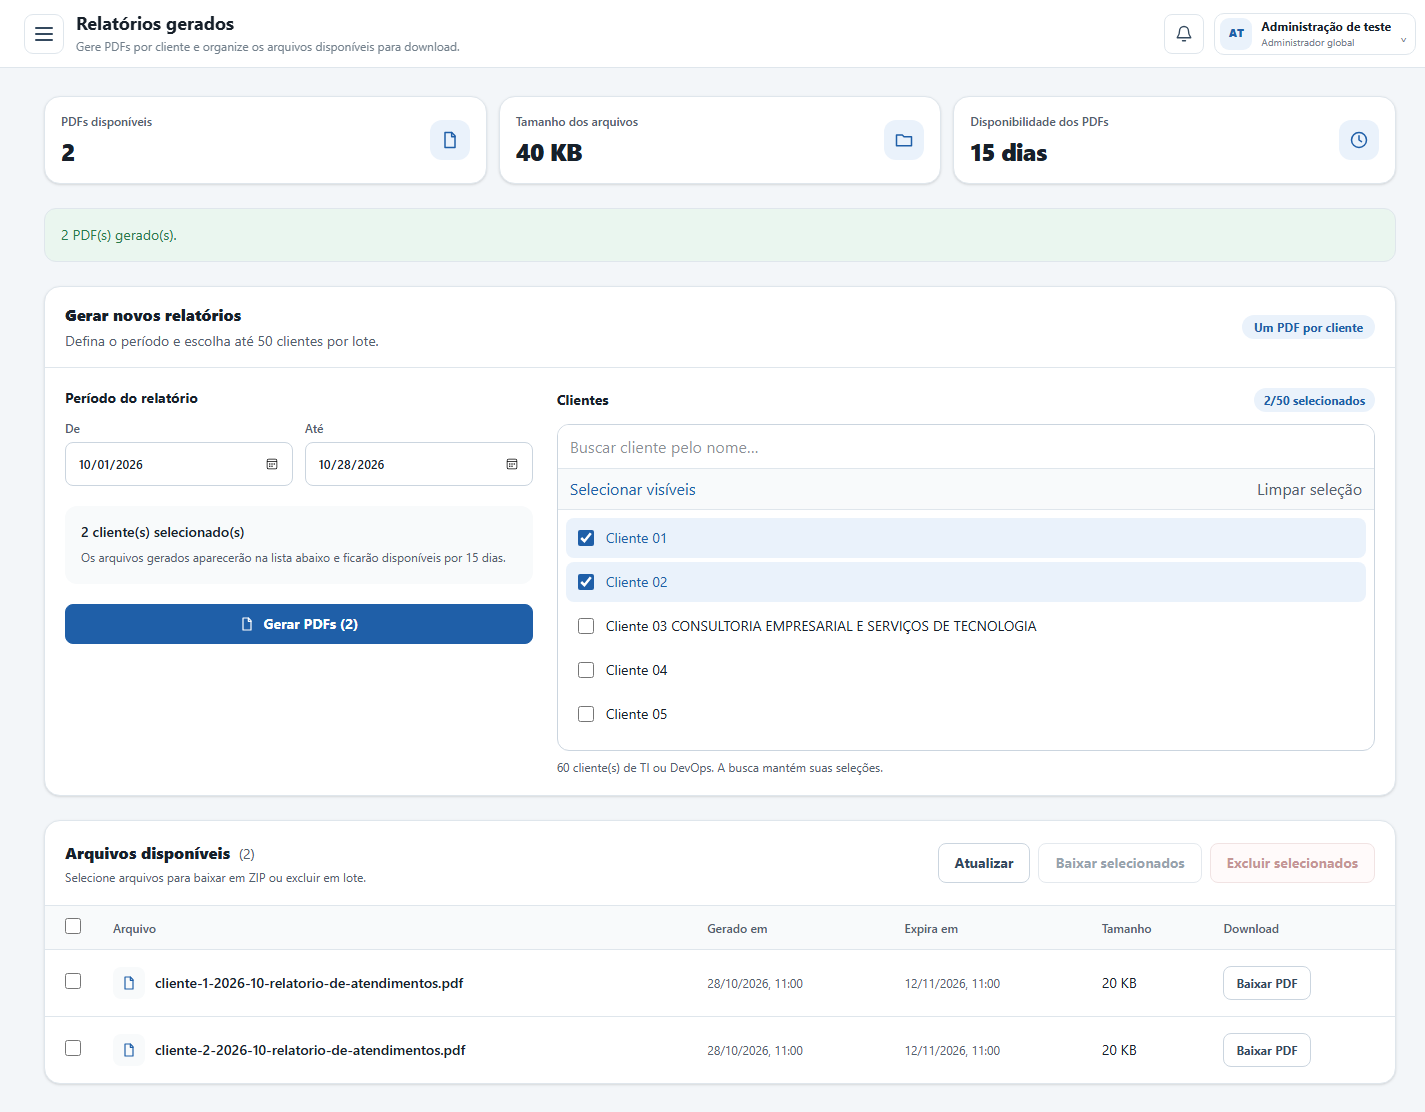
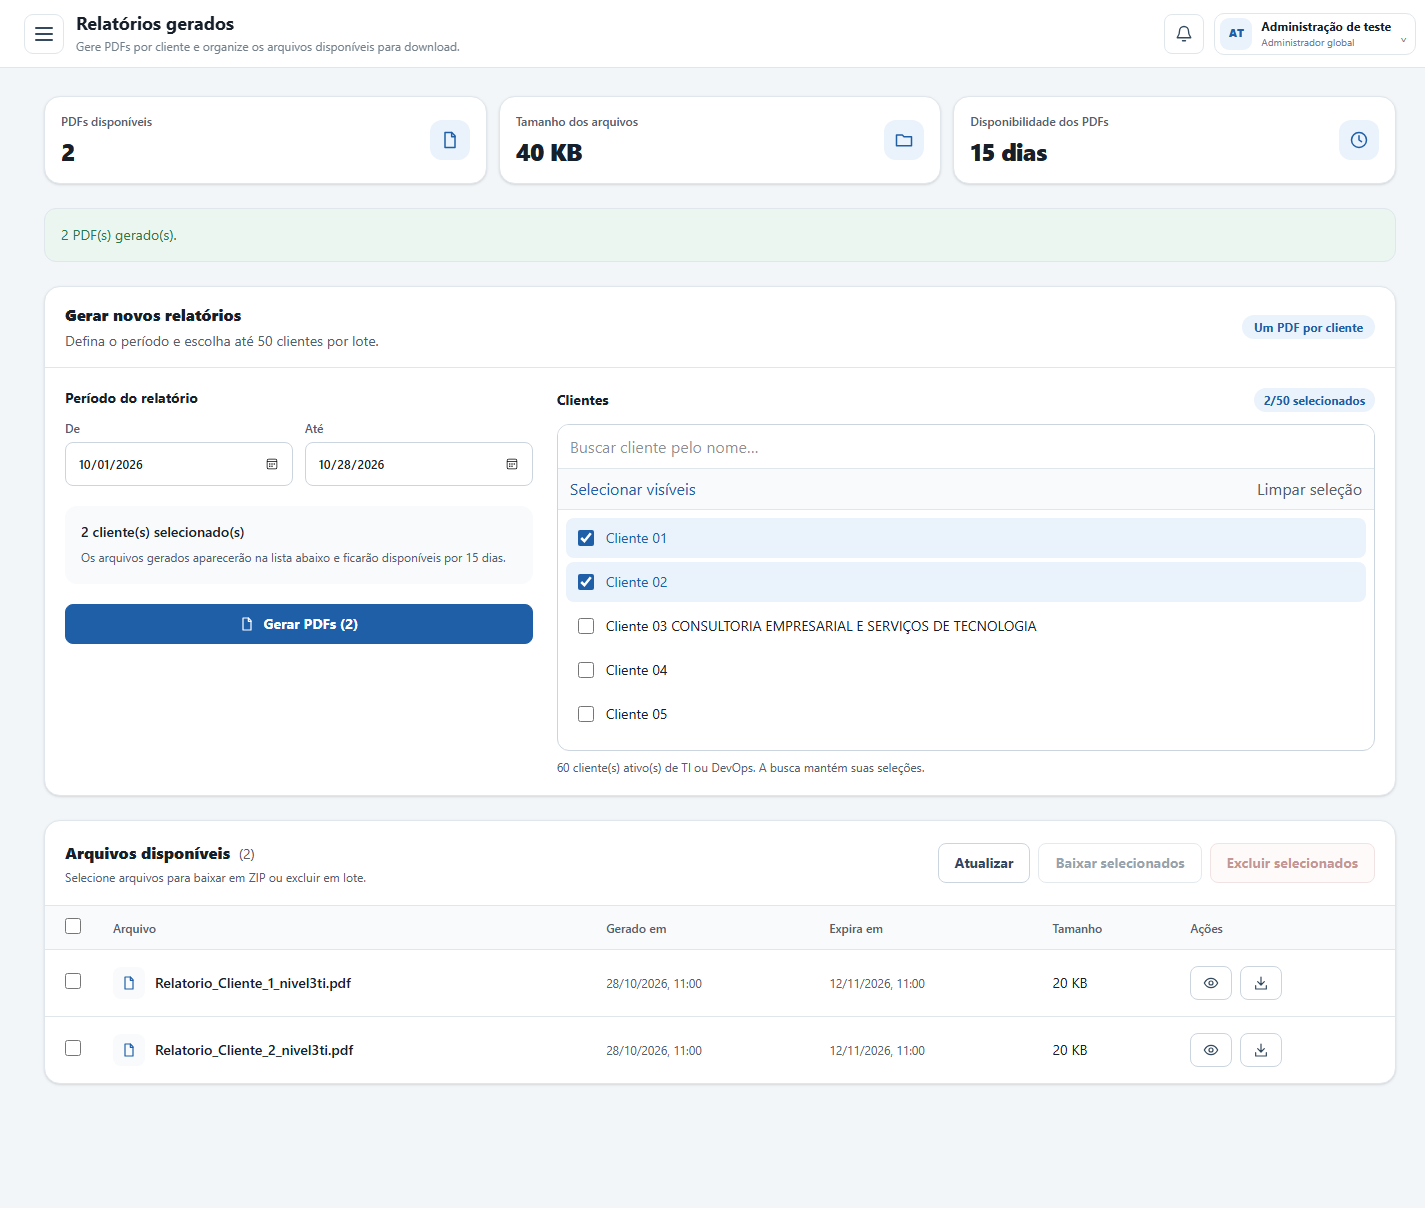
feat(reports): name client PDFs and add authenticated preview

diff --git a/apps/web/src/modules/reports/components/report-archive-screen.tsx b/apps/web/src/modules/reports/components/report-archive-screen.tsx
@@ -7,6 +7,7 @@ import { AppPageHeader } from '../../../shared/navigation/app-page-header';
 import { NavigationIcon } from '../../../shared/navigation/navigation-icon';
 import { appButtonClass } from '../../../shared/ui/button-styles';
 import { reportError } from '../lib/report-export';
+import { ReportPdfPreview } from './report-pdf-preview';
 
 interface ArchivedReport { name: string; size: number; modifiedAt: string; expiresAt: string }
 const CARD = 'min-w-0 rounded-2xl border border-app-border bg-app-surface shadow-sm';
@@ -38,6 +39,7 @@ export function ReportArchiveScreen({ currentUser }: { currentUser: CurrentUserR
   const [busyLabel, setBusyLabel] = useState('Carregando dados…');
   const [error, setError] = useState('');
   const [message, setMessage] = useState('');
+  const [preview, setPreview] = useState<string | null>(null);
 
   async function refresh(signal?: AbortSignal) {
     const [archive, catalog] = await Promise.all([
@@ -46,6 +48,7 @@ export function ReportArchiveScreen({ currentUser }: { currentUser: CurrentUserR
     ]);
     if (signal?.aborted) return;
     setFiles(archive); setClients(catalog.clients); setNames([]);
+    setClientIds(current => current.filter(id => catalog.clients.some(client => client.id === id)));
   }
   useEffect(() => {
     const controller = new AbortController();
@@ -129,7 +132,7 @@ export function ReportArchiveScreen({ currentUser }: { currentUser: CurrentUserR
                 {!visibleClients.length ? <p className="m-0 p-6 text-center text-sm text-app-muted">{busy ? 'Carregando clientes…' : clients.length ? 'Nenhum cliente encontrado para esta busca.' : 'Nenhum cliente disponível.'}</p> : null}
               </div>
             </div>
-            <p className="mb-0 mt-2 text-xs text-app-muted">{clientIds.length === 50 ? 'Limite do lote atingido. Desmarque um cliente para escolher outro.' : `${visibleClients.length} cliente(s) de TI ou DevOps. A busca mantém suas seleções.`}</p>
+            <p className="mb-0 mt-2 text-xs text-app-muted">{clientIds.length === 50 ? 'Limite do lote atingido. Desmarque um cliente para escolher outro.' : `${visibleClients.length} cliente(s) ativo(s) de TI ou DevOps. A busca mantém suas seleções.`}</p>
           </fieldset>
         </div>
       </form>
@@ -144,14 +147,18 @@ export function ReportArchiveScreen({ currentUser }: { currentUser: CurrentUserR
         </div></header>
         {files.length ? <div className="overflow-x-auto"><table className="w-full min-w-[760px] border-collapse text-left text-sm"><caption className="sr-only">PDFs gerados e suas datas de expiração</caption><thead className="bg-app-surface-muted text-xs text-app-muted"><tr>
           <th scope="col" className="w-12 px-5 py-3"><input className={CHECKBOX} type="checkbox" aria-label="Selecionar todos os arquivos" disabled={busy} checked={names.length === files.length} ref={input => { if (input) input.indeterminate = names.length > 0 && names.length < files.length; }} onChange={event => setNames(event.target.checked ? files.map(file => file.name) : [])} /></th>
-          {['Arquivo', 'Gerado em', 'Expira em', 'Tamanho', 'Download'].map(label => <th scope="col" className="whitespace-nowrap px-3 py-3 font-semibold" key={label}>{label}</th>)}
+          {['Arquivo', 'Gerado em', 'Expira em', 'Tamanho', 'Ações'].map(label => <th scope="col" className="whitespace-nowrap px-3 py-3 font-semibold" key={label}>{label}</th>)}
         </tr></thead><tbody>{files.map(file => <tr key={file.name} className={`border-t border-app-border ${names.includes(file.name) ? 'bg-app-brand-soft' : 'hover:bg-app-surface-hover'}`}>
           <td className="px-5 py-4"><input className={CHECKBOX} type="checkbox" aria-label={`Selecionar ${file.name}`} disabled={busy} checked={names.includes(file.name)} onChange={event => setNames(current => event.target.checked ? [...new Set([...current, file.name])] : current.filter(name => name !== file.name))} /></td>
           <td className="max-w-[360px] px-3 py-4"><span className="flex items-center gap-2.5"><span className="shrink-0 rounded-lg bg-app-surface-muted p-2 text-app-brand"><NavigationIcon name="file" className="size-4" /></span><span className="min-w-0 break-words font-medium [overflow-wrap:anywhere]" title={file.name}>{file.name}</span></span></td>
           <td className="whitespace-nowrap px-3 py-4 text-xs text-app-muted">{dateLabel(file.modifiedAt)}</td><td className="whitespace-nowrap px-3 py-4 text-xs text-app-muted">{dateLabel(file.expiresAt)}</td><td className="whitespace-nowrap px-3 py-4">{sizeLabel(file.size)}</td>
-          <td className="px-3 py-4"><button className={appButtonClass('secondary', 'sm')} type="button" aria-label={`Baixar ${file.name}`} disabled={busy} onClick={() => void action(() => apiDownload(`reports/archive/${encodeURIComponent(file.name)}`, file.name), 'Preparando download…')}>Baixar PDF</button></td>
+          <td className="px-3 py-4"><div className="flex gap-2">
+            <button className={appButtonClass('secondary', 'sm')} type="button" title="Visualizar PDF" aria-label={`Visualizar ${file.name}`} disabled={busy} onClick={() => setPreview(file.name)}><svg aria-hidden="true" className="size-4" viewBox="0 0 24 24" fill="none" stroke="currentColor" strokeWidth="1.8"><path d="M2 12s3.5-7 10-7 10 7 10 7-3.5 7-10 7S2 12 2 12Z" /><circle cx="12" cy="12" r="3" /></svg></button>
+            <button className={appButtonClass('secondary', 'sm')} type="button" title="Baixar PDF" aria-label={`Baixar ${file.name}`} disabled={busy} onClick={() => void action(() => apiDownload(`reports/archive/${encodeURIComponent(file.name)}`, file.name), 'Preparando download…')}><svg aria-hidden="true" className="size-4" viewBox="0 0 24 24" fill="none" stroke="currentColor" strokeWidth="1.8" strokeLinecap="round" strokeLinejoin="round"><path d="M12 3v12m-5-5 5 5 5-5M4 16v5h16v-5" /></svg></button>
+          </div></td>
         </tr>)}</tbody></table></div> : <div className="grid justify-items-center gap-2 px-5 py-12 text-center"><span className="mb-1 rounded-2xl bg-app-surface-muted p-4 text-app-muted"><NavigationIcon name="folder" className="size-8" /></span><h3 className="m-0 text-sm font-bold">{busy ? 'Carregando arquivos…' : 'Nenhum relatório disponível'}</h3><p className="m-0 max-w-md text-sm text-app-muted">{error ? 'Não foi possível atualizar os arquivos. Tente novamente em Atualizar.' : 'Escolha o período e os clientes acima para gerar seu primeiro lote de PDFs.'}</p></div>}
       </section>
     </div>
+    {preview ? <ReportPdfPreview key={preview} name={preview} onClose={() => setPreview(null)} /> : null}
   </main>;
 }

diff --git a/apps/api/src/modules/reports/presentation/http/report-archive.controller.ts b/apps/api/src/modules/reports/presentation/http/report-archive.controller.ts
@@ -48,6 +48,14 @@ export class ReportArchiveController {
     return this.reports.catalog(userId, 0, true);
   }
 
+  @Get('archive/:name/preview')
+  @Header('Cache-Control', 'no-store')
+  @ApiOperation({ summary: 'Visualizar PDF arquivado' })
+  async preview(@CurrentUser() user: AuthenticatedUser | undefined, @Param('name') name: string) {
+    await this.archive.authorize(reportUser(user));
+    return new StreamableFile(await this.archive.read(name), { type: 'application/pdf', disposition: `inline; filename="relatorio.pdf"; filename*=UTF-8''${encodeURIComponent(name)}` });
+  }
+
   @Get('archive/:name')
   @Header('Cache-Control', 'no-store')
   @ApiOperation({ summary: 'Baixar PDF arquivado' })
@@ -89,7 +97,7 @@ export class ReportArchiveController {
     await this.archive.authorize(userId);
     if (!body || !Array.isArray(body.clientIds) || !body.clientIds.length || body.clientIds.length > 50 || body.clientIds.some(id => typeof id !== 'number' || !Number.isSafeInteger(id) || id < 1)) throw new BadRequestException('Selecione entre 1 e 50 clientes.');
     const filters = analyticsFilters({ startDate: body.startDate, endDate: body.endDate, source: 'unified' });
-    const allowed = new Set((await this.reports.catalog(userId, 0, true)).clients.map(row => row.id));
+    const allowed = new Map((await this.reports.catalog(userId, 0, true)).clients.map(row => [row.id, row.name]));
     const clientIds = [...new Set(body.clientIds as number[])];
     if (clientIds.some(id => !allowed.has(id))) throw new BadRequestException('Selecione apenas clientes ativos com TI ou DevOps habilitado.');
     const files = [];
@@ -97,7 +105,7 @@ export class ReportArchiveController {
     for (const clientId of clientIds) {
       try {
         const report = await this.reports.analytics(userId, { ...filters, clientId });
-        files.push(await this.archive.save(clientId, filters.startDate, filters.endDate, analyticsPdf(report)));
+        files.push(await this.archive.save(clientId, filters.startDate, filters.endDate, analyticsPdf(report), allowed.get(clientId)));
       } catch (error) { errors.push({ clientId, message: error instanceof BadRequestException ? error.message : 'Não foi possível gerar o PDF deste cliente.' }); }
     }
     return { files, errors };

diff --git a/apps/web/src/modules/reports/components/report-pdf-preview.tsx b/apps/web/src/modules/reports/components/report-pdf-preview.tsx
@@ -1,0 +1,38 @@
+'use client';
+
+import { useEffect, useRef, useState } from 'react';
+import { apiBlob } from '../../../shared/api/api-client';
+import { appButtonClass } from '../../../shared/ui/button-styles';
+import { reportError } from '../lib/report-export';
+
+export function ReportPdfPreview({ name, onClose }: { name: string; onClose: () => void }) {
+  const dialog = useRef<HTMLDialogElement>(null);
+  const [url, setUrl] = useState('');
+  const [error, setError] = useState('');
+
+  useEffect(() => {
+    dialog.current?.showModal();
+    const controller = new AbortController();
+    let objectUrl = '';
+    apiBlob(`reports/archive/${encodeURIComponent(name)}/preview`, { signal: controller.signal })
+      .then(blob => {
+        if (controller.signal.aborted) return;
+        if (blob.type !== 'application/pdf') throw new Error('Resposta de visualização inválida.');
+        objectUrl = URL.createObjectURL(blob);
+        setUrl(objectUrl);
+      }).catch(reason => { if (!controller.signal.aborted) setError(reportError(reason)); });
+    return () => { controller.abort(); if (objectUrl) URL.revokeObjectURL(objectUrl); };
+  }, [name]);
+
+  return <dialog ref={dialog} aria-labelledby="pdf-preview-title" onClose={onClose} className="h-[90dvh] max-h-[90dvh] w-[1100px] max-w-[95vw] rounded-2xl border border-app-border bg-app-surface p-0 text-app-text shadow-xl backdrop:bg-black/50">
+    <div className="flex h-full flex-col">
+      <header className="flex items-center justify-between gap-4 border-b border-app-border p-4">
+        <h2 id="pdf-preview-title" className="m-0 min-w-0 break-all text-sm font-bold">{name}</h2>
+        <button autoFocus type="button" className={appButtonClass('secondary', 'sm')} onClick={() => dialog.current?.close()}>Fechar</button>
+      </header>
+      {error ? <p role="alert" className="p-4 text-app-danger">{error}</p> : url
+        ? <iframe title={`Visualização de ${name}`} src={url} className="min-h-0 w-full flex-1 border-0" />
+        : <p role="status" className="p-4 text-app-muted">Carregando visualização…</p>}
+    </div>
+  </dialog>;
+}

diff --git a/apps/api/src/modules/reports/infrastructure/storage/local-generated-report-storage.ts b/apps/api/src/modules/reports/infrastructure/storage/local-generated-report-storage.ts
@@ -2,7 +2,6 @@ import { BadRequestException, ForbiddenException, Inject, Injectable, NotFoundEx
 import { existsSync } from 'node:fs';
 import { lstat, mkdir, readFile, readdir, realpath, unlink, writeFile } from 'node:fs/promises';
 import path from 'node:path';
-import { randomUUID } from 'node:crypto';
 import type { Nivel3DatabaseClient } from '@helpdesk/database';
 import { NIVEL3_DATABASE } from '../../../../core/database/database.constants';
 import { GeneratedReportStorage } from '../../application/ports/generated-report-storage';
@@ -108,10 +107,20 @@ export class LocalGeneratedReportStorage extends GeneratedReportStorage {
     return removed;
   }
 
-  async save(clientId: number, start: string, end: string, pdf: Buffer) {
+  async save(clientId: number, _start: string, _end: string, pdf: Buffer, clientName?: string) {
     await mkdir(generatedReportStorageRoot(), { recursive: true });
-    const name = `Relatorio_${clientId}_${start}_${end}_${randomUUID()}.pdf`;
-    await writeFile(path.join(generatedReportStorageRoot(), name), pdf, { flag: 'wx' });
-    return name;
+    const client = (clientName ?? '').normalize('NFD').replace(/[\u0300-\u036f]/g, '')
+      .replace(/[^a-zA-Z0-9]+/g, '_').replace(/^_+|_+$/g, '').slice(0, 100).replace(/_+$/g, '') || String(clientId);
+    // Exclusive creation also preserves reports generated concurrently for the same client.
+    for (let suffix = 1; suffix <= 10000; suffix++) {
+      const name = `Relatorio_${client}_nivel3ti${suffix === 1 ? '' : `_${suffix}`}.pdf`;
+      try {
+        await writeFile(path.join(generatedReportStorageRoot(), name), pdf, { flag: 'wx' });
+        return name;
+      } catch (error) {
+        if ((error as NodeJS.ErrnoException).code !== 'EEXIST') throw error;
+      }
+    }
+    throw new BadRequestException('Limite de relatórios para este cliente atingido.');
   }
 }

diff --git a/apps/web/src/shared/api/api-client.ts b/apps/web/src/shared/api/api-client.ts
@@ -52,7 +52,7 @@ export async function apiRequest<T>(
   return body as T;
 }
 
-export async function apiDownload(path: string, filename: string, init?: RequestInit): Promise<void> {
+export async function apiBlob(path: string, init?: RequestInit): Promise<Blob> {
   const method = (init?.method ?? 'GET').toUpperCase();
   const headers = new Headers(init?.headers);
   if (!SAFE_METHODS.has(method)) headers.set('X-Helpdesk-Request', 'browser');
@@ -61,7 +61,11 @@ export async function apiDownload(path: string, filename: string, init?: Request
     const body = await response.json().catch(() => null);
     throw new ApiError(response.status, body);
   }
-  const url = URL.createObjectURL(await response.blob());
+  return response.blob();
+}
+
+export async function apiDownload(path: string, filename: string, init?: RequestInit): Promise<void> {
+  const url = URL.createObjectURL(await apiBlob(path, init));
   const anchor = document.createElement('a');
   anchor.href = url; anchor.download = filename; anchor.click();
   setTimeout(() => URL.revokeObjectURL(url), 1000);

diff --git a/apps/api/src/modules/reports/application/ports/generated-report-storage.ts b/apps/api/src/modules/reports/application/ports/generated-report-storage.ts
@@ -4,5 +4,5 @@ export abstract class GeneratedReportStorage {
   abstract read(name: string): Promise<Buffer>;
   abstract remove(name: string): Promise<void>;
   abstract removeExpired(before: Date): Promise<number>;
-  abstract save(clientId: number, start: string, end: string, pdf: Buffer): Promise<string>;
+  abstract save(clientId: number, start: string, end: string, pdf: Buffer, clientName?: string): Promise<string>;
 }

diff --git a/docs/reports/report-archive-layout.md b/docs/reports/report-archive-layout.md
@@ -12,4 +12,10 @@ Validação em 28/10/2026: build completo e 13 testes de relatórios aprovados. 
 
 Executar: `pnpm build`, `pnpm test:reports` e `pnpm test:reports:archive:ui`.
 
+Novos PDFs seguem `Relatorio_nomecliente_nivel3ti.pdf`, com acentos removidos e caracteres especiais substituídos por sublinhado. Gerações repetidas recebem `_2`, `_3` etc.; a criação exclusiva protege inclusive contra sobrescrita em gerações simultâneas. PDFs antigos mantêm seus nomes e continuam disponíveis.
+
+A coluna Ações contém ícones de visualização e download, com descrição acessível. A visualização abre um diálogo na página, carrega o PDF com a sessão autenticada e libera a URL temporária ao fechar. `GET /api/reports/archive/:name/preview` exige as mesmas permissões e validações de caminho do download, usa disposição `inline` e não permite cache. O catálogo continua restrito a clientes ativos de TI ou DevOps; atualizar os dados também remove seleções que deixaram de ser elegíveis.
+
+Os testes adicionais verificam nomes seguros, gerações concorrentes sem sobrescrita, autorização da visualização e envio do nome do cliente ao armazenamento. O teste de navegador cobre abertura e fechamento da visualização e botões por ícone, com PDF simulado válido.
+
 Capturas com dados simulados: [desktop](report-archive-desktop.png) e [celular](report-archive-mobile.png).
